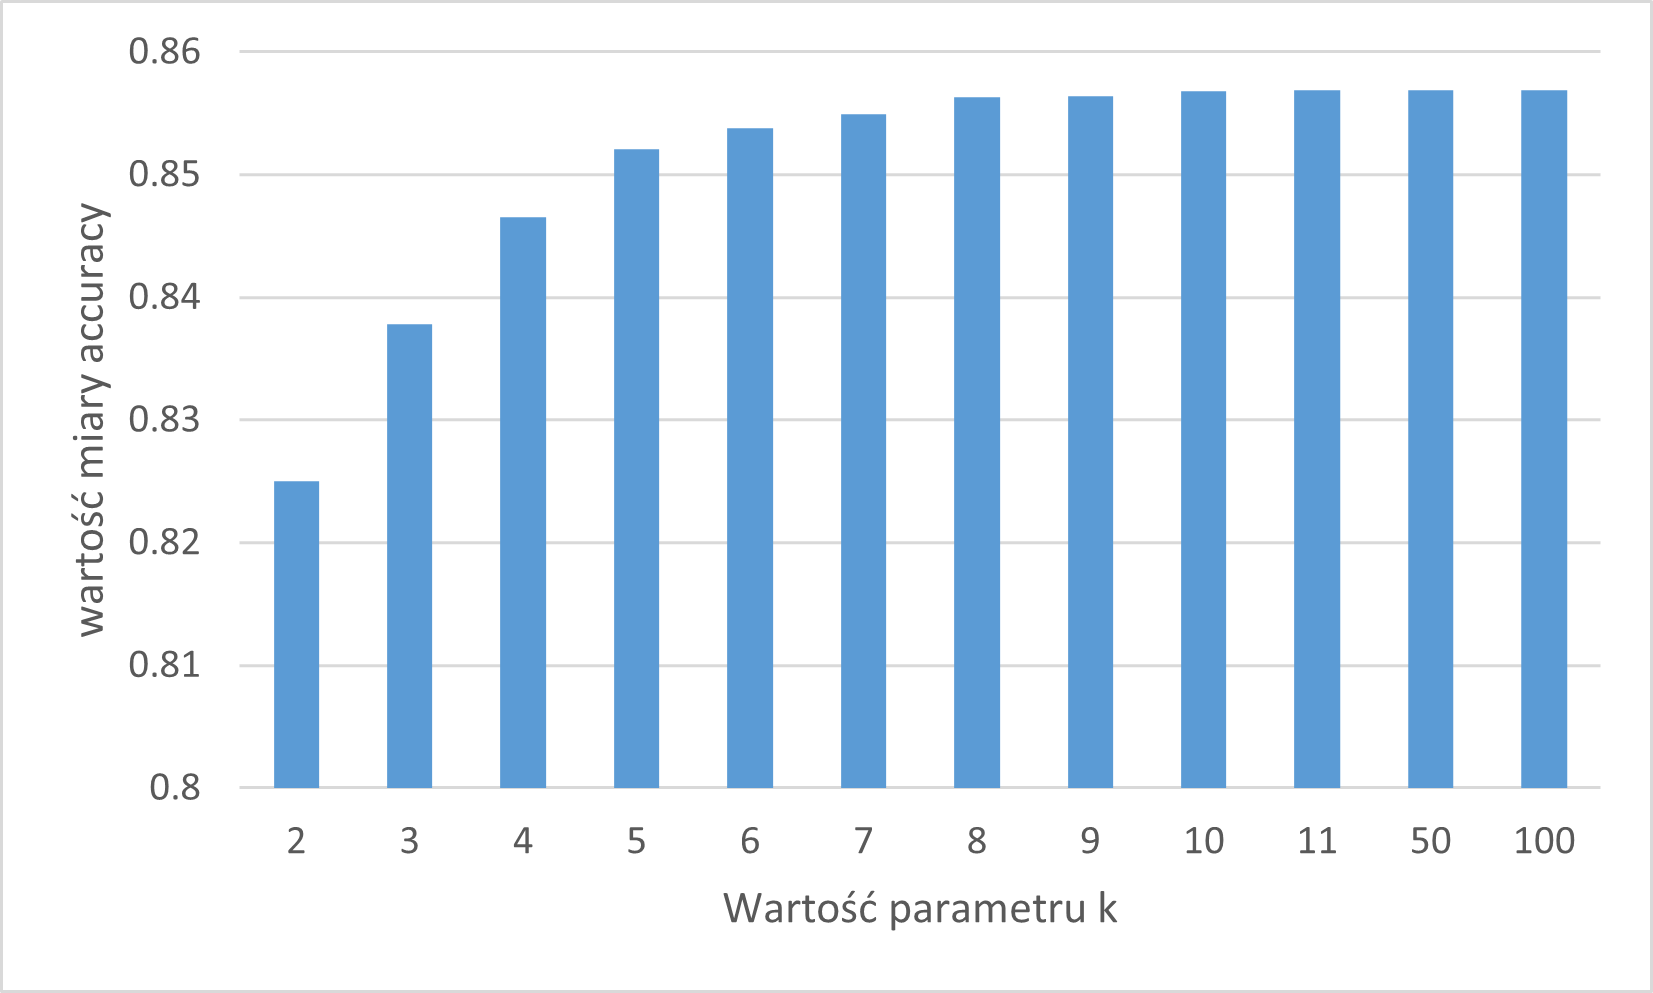
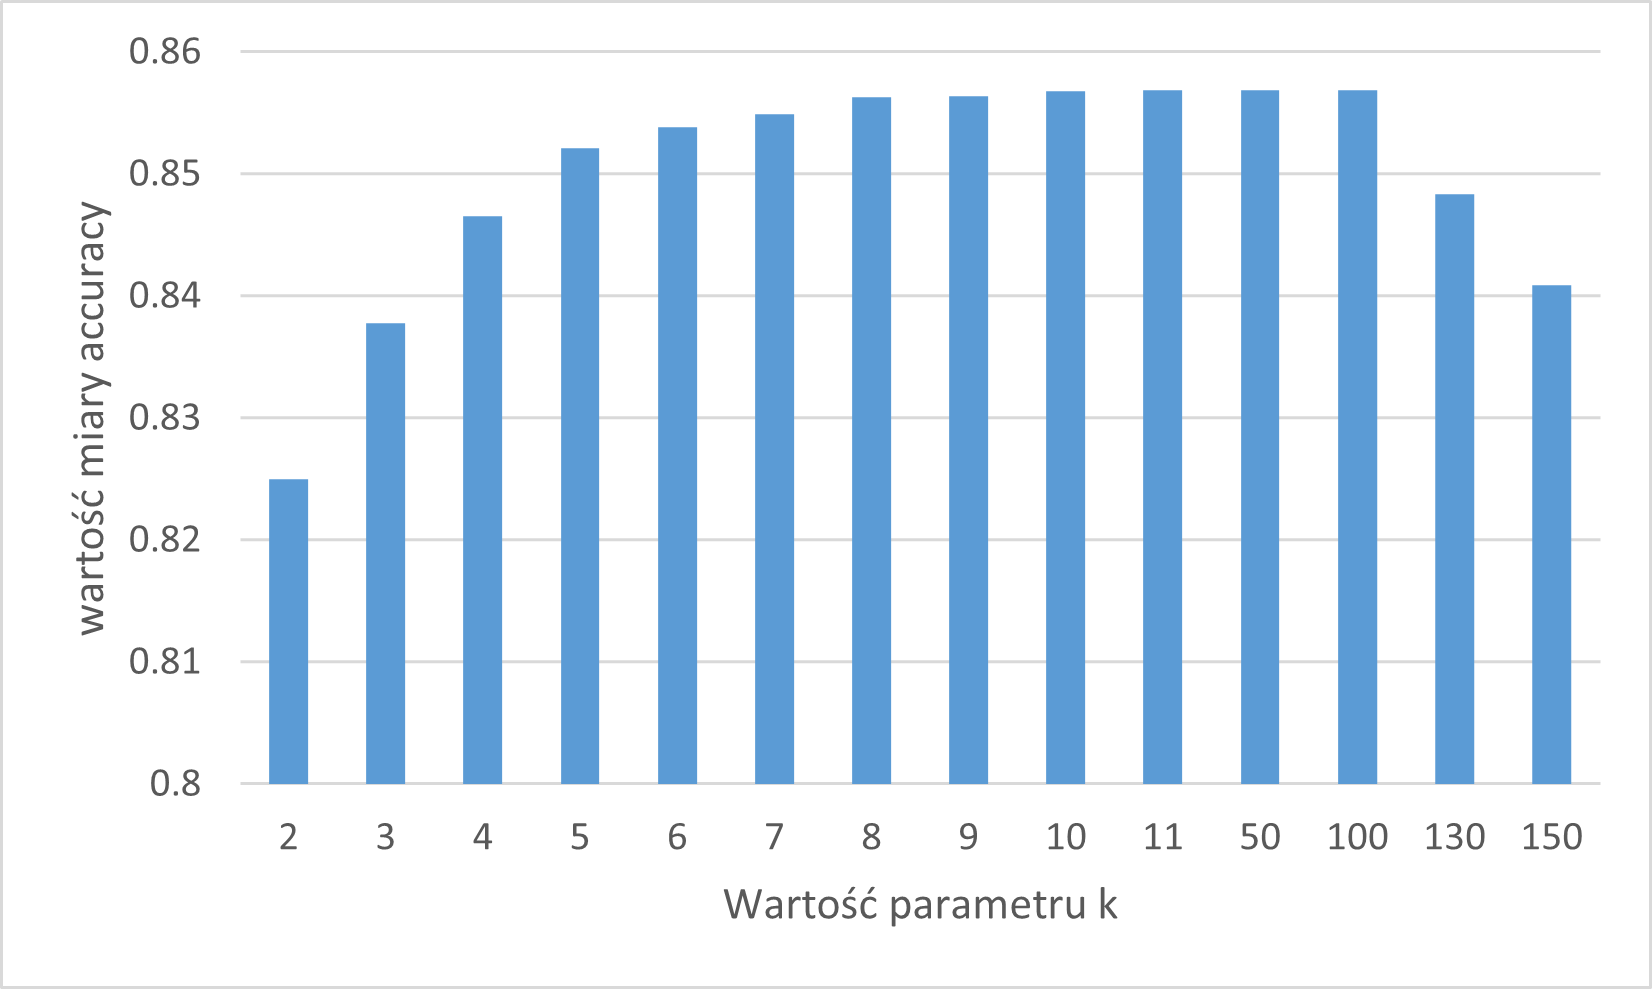
Fixed sprawko

diff --git a/sprawko/Sprawozdanie-projekt-1-klasyfikacja.tex b/sprawko/Sprawozdanie-projekt-1-klasyfikacja.tex
@@ -460,6 +460,12 @@ Poniżej zamieszczono tabele wynikowe oraz wykresy zależności miary Accuracy o
         PPV & 0.8146 & 0.8678 & 0.7406 & 0.8125 & 0.6955 & 0.8052 & 100 \\ \hline
         TPR & 0.5541 & 0.9776 & 0.5429 & 0.619 & 0.2541 & 0.3542 & 100 \\ \hline
         F1 & 0.6595 & 0.9194 & 0.6265 & 0.7027 & 0.3722 & 0.492 & 100 \\ \hline
+        PPV & 0.88 & 0.8588 & 0.731 & 0.7816 & 0.698 & 0.8028 & 130 \\ \hline
+        TPR & 0.0956 & 0.9776 & 0.5561 & 0.6098 & 0.2734 & 0.3678 & 130 \\ \hline
+        F1 & 0.1725 & 0.9144 & 0.6317 & 0.6851 & 0.3929 & 0.5045 & 130 \\ \hline
+        PPV & 1 & 0.8481 & 0.7677 & 0.8142 & 0.6937 & 0.8208 & 150 \\ \hline
+        TPR & 0.00833 & 0.9823 & 0.5555 & 0.3114 & 0.2651 & 0.3648 & 150 \\ \hline
+        F1 & 0.0165 & 0.9103 & 0.6446 & 0.4505 & 0.3837 & 0.5051 & 150 \\ \hline
     \end{tabular}
 \end{adjustbox}
 \end{table}
@@ -630,7 +636,7 @@ algorytmu $k$-NN równej 7.}
 %Wymienić wg opisu Projektu 1. wszystkie niezrealizowane obowiązkowe elementy projektu, ewentualnie
 %podać merytoryczne (ale nie czasowe) przyczyny tych braków. 
 \subsection{Badanie wpływu parametru $k$ na jakosc klasyfikacji}
-Na wykresie zawartym na Rysunku nr. 2 oraz dzięki danym zawartych w tabelach 1 oraz 2 zauważyć można znaczący wzrost wartości miary Accuracy dla wartości parametru k równym 2, 3, 4 oraz 5. Wzrost ten jest mniejszy, gdy k przyjmuje wartości większe bądź równe 6 i dalsze zmiany tego parametru nie wpływają w sposób znaczny na wartość miary Accuracy. Podobna zależność istnieje również pomiędzy wartością parametru k oraz wartościami miar PPV, TPR i F1 dla poszczególnych klas oraz PPVc, TPRc, F1c dla wszystkich klasyfikowanych dokumentów. Przy największej badanej wartości parametru k, równej 7, otrzymano wartość miary Accuracy dla klasy USA, rzędu ok 0.8 a wzrost badanej zmiennej nie wpływał dalej na wyniki. Dzieję się tak, z racji tego, że klasa dokumentów dotyczących kraju USA jest klasą najbardziej liczną, a dokładniej stanowi ona ok 80\% badanego zbioru. Stąd też wskaźnik Accuracy stabilizuje się po osiągnięciu właśnie tej wartości.
+Na wykresie zawartym na Rysunku nr. 2 oraz dzięki danym zawartych w tabelach 1 oraz 2 zauważyć można znaczący wzrost wartości miary Accuracy dla wartości parametru k równym 2, 3, 4 oraz 5. Wzrost ten jest mniejszy, gdy k przyjmuje wartości większe bądź równe 6 i dalsze zmiany tego parametru do wartości k równej 130 nie wpływają w sposób znaczny na wartość miary Accuracy. Podobna zależność istnieje również pomiędzy wartością parametru k oraz wartościami miar PPV, TPR i F1 dla poszczególnych klas oraz PPVc, TPRc, F1c dla wszystkich klasyfikowanych dokumentów. Przy największej badanej wartości parametru k, równej 7, otrzymano wartość miary Accuracy dla klasy USA, rzędu ok 0.8 a wzros dla k mniejszego od 130 zmiennej wpływał dalej na wyniki. Dzieję się tak, z racji tego, że klasa dokumentów dotyczących kraju USA jest klasą najbardziej liczną, a dokładniej stanowi ona ok 80\% badanego zbioru. Stąd też wskaźnik Accuracy stabilizuje się po osiągnięciu właśnie tej wartości. Zauważyć można jednak również, że dla wartości k większych od 100, Accuracy zmieniejsza się. Jest to spowodowane faktem, że przy wybraniu dużych ilości najbliższych sąsiadów w celu klasfyfikacji, większość z nich będzie należała do klasy najliczniej występującej pomimo tego, że oprócz niej w zbiorze sąsiadów znajdować się będą również dokumenty o klasie odpowiadającej prawdziwej klasie badanego dokumentu.
 \\
 \subsection{Badanie wpływu proporcji podziału na zbiory uczacy i testowy na jakosc klasyfikacji}
 Na wykresie zawartym na rysunku nr. 3 widać, że zmiana podziału zbioru dokumentów na zbiór testowy i treningowy wpływa na zmianę wartości wskaźnika ACC. Po wstępnej analizie wyników, można dostrzec, że przy podziale 30:70 (testowy:treningowy) następuje nieznaczny spadek miary Accuracy. Natomiast dla kolejnych, badanych wartości stosunku liczby artykułów w zbiorze testowym do liczby wszystkich dokumentów branych pod uwagę, zaobserwować można jednostajny wzrost wartości miary Accuracy. Jednakże, wyniki badanego wskaźnika utrzymują się na dość wysokim poziomie. Wartości oscylują w granicach 85\%-86\%, co oznacza dość nieznaczne polepszenie się jakości klasyfikacji. Po analizie zawartości tabel nr. 3 i 4, na pierwszy plan wychodzą wysokie wartości wskaźników dla klasy USA. Dzieję się tak, gdyż jest to najliczniejsza ze wszystkich klas oraz w większości dokumentów, nie mówiących o Stanach Zjednoczonych, jest wspominana nazwa tego kraju, co niewątpliwie wpływa na wynik klasyfikacji. Niemniej jednak, we wszystkich klasach widać wzrost wartości każdej z miar.
